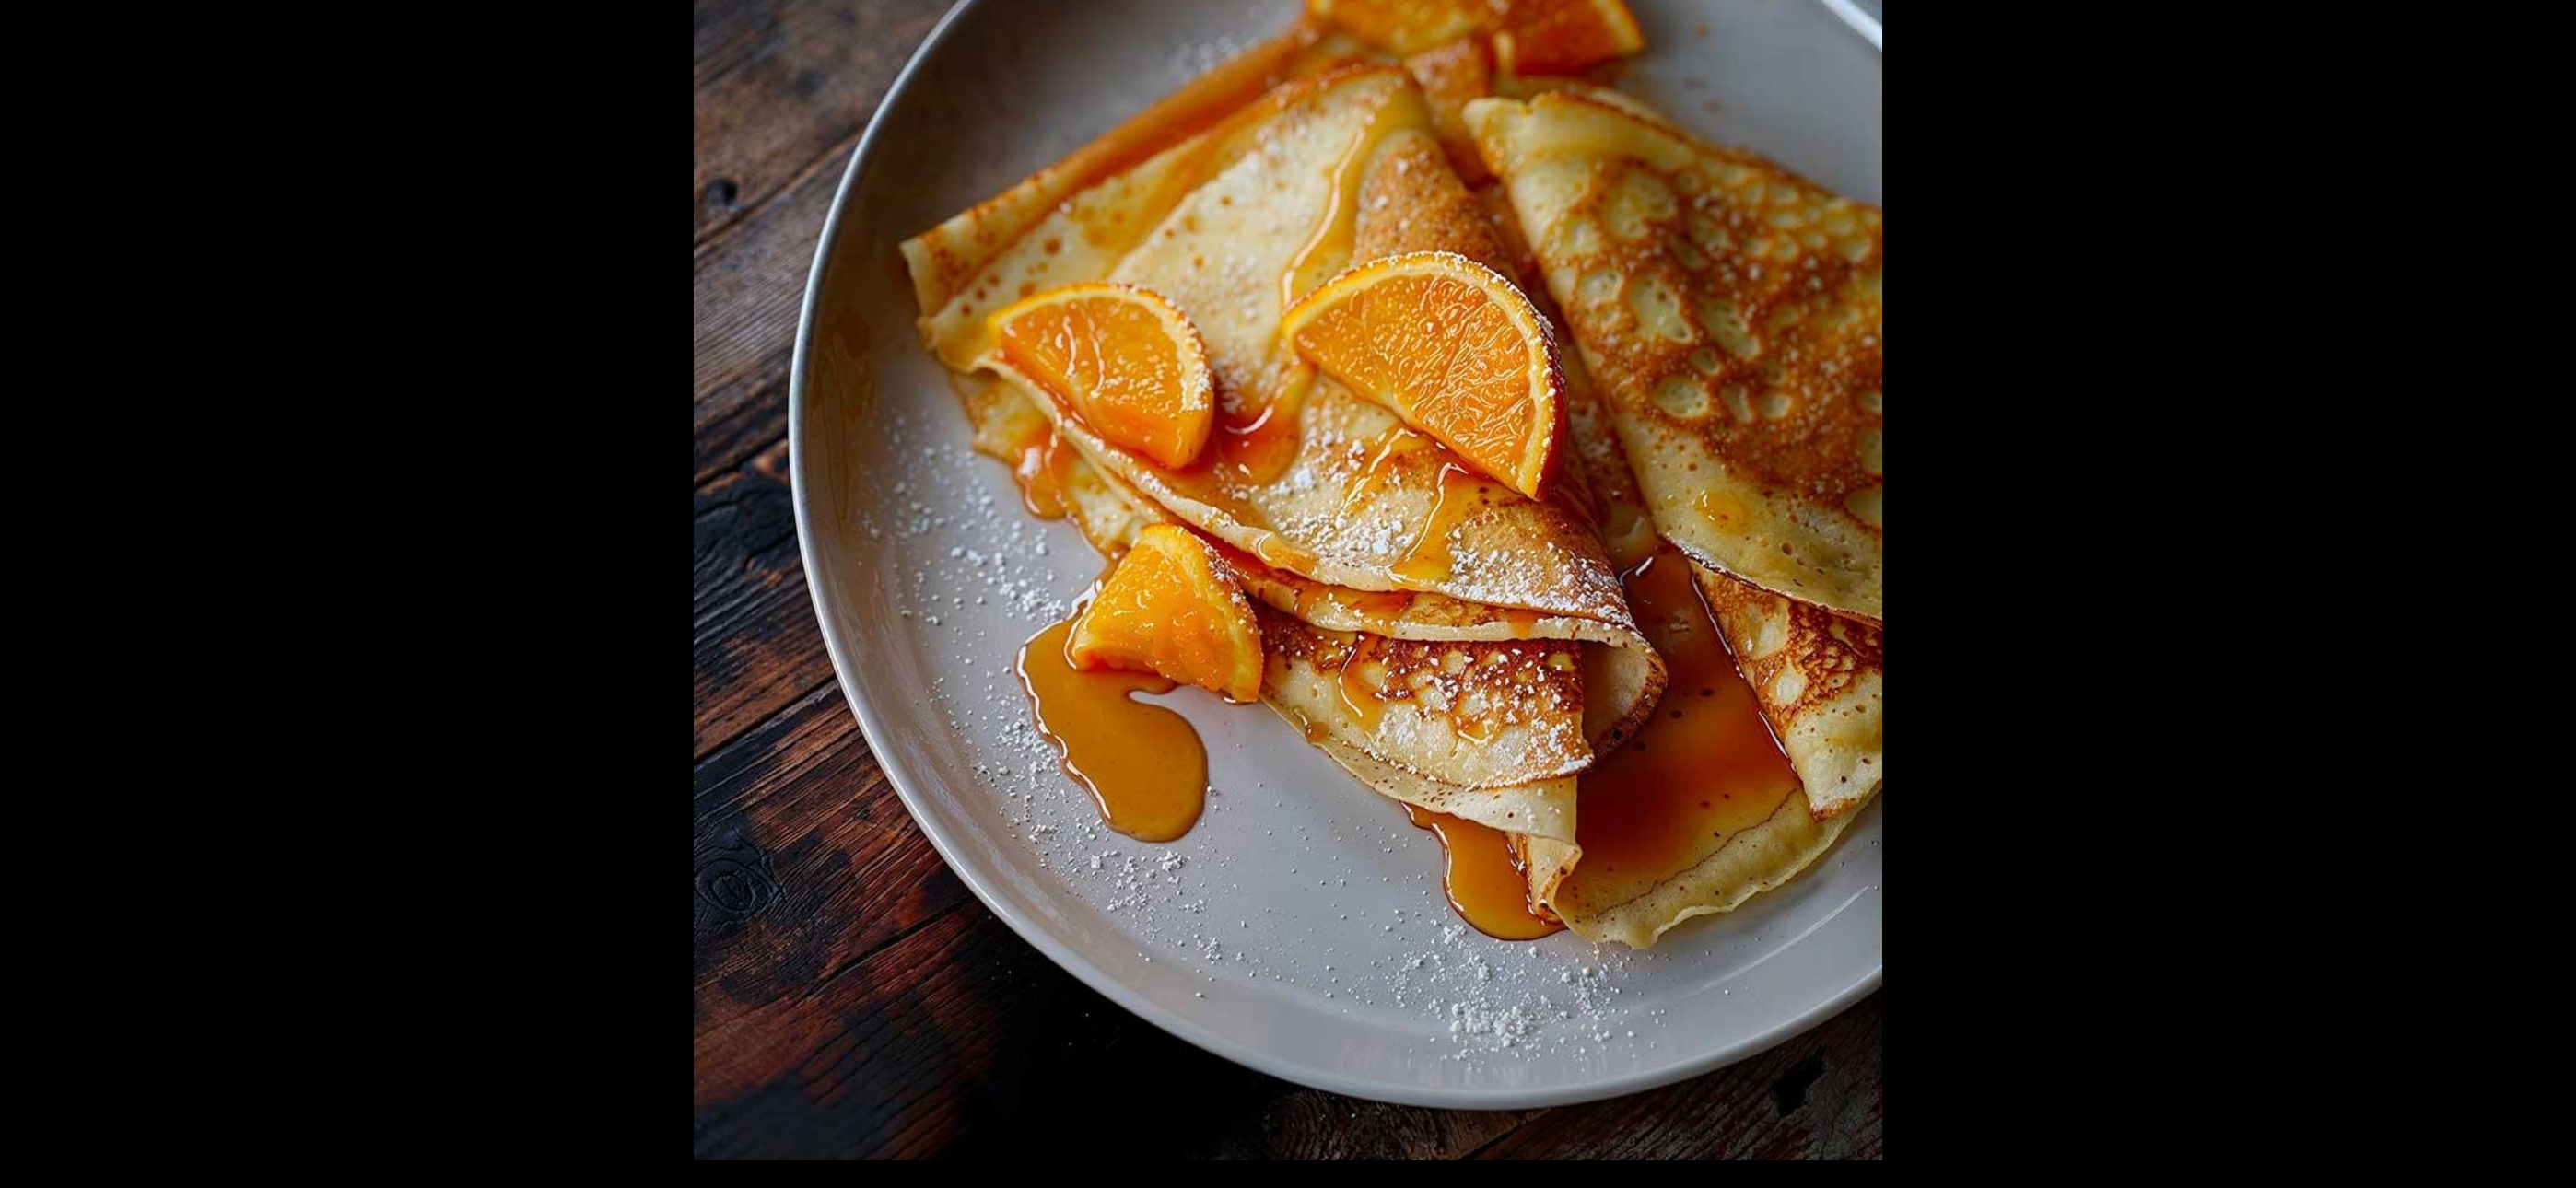
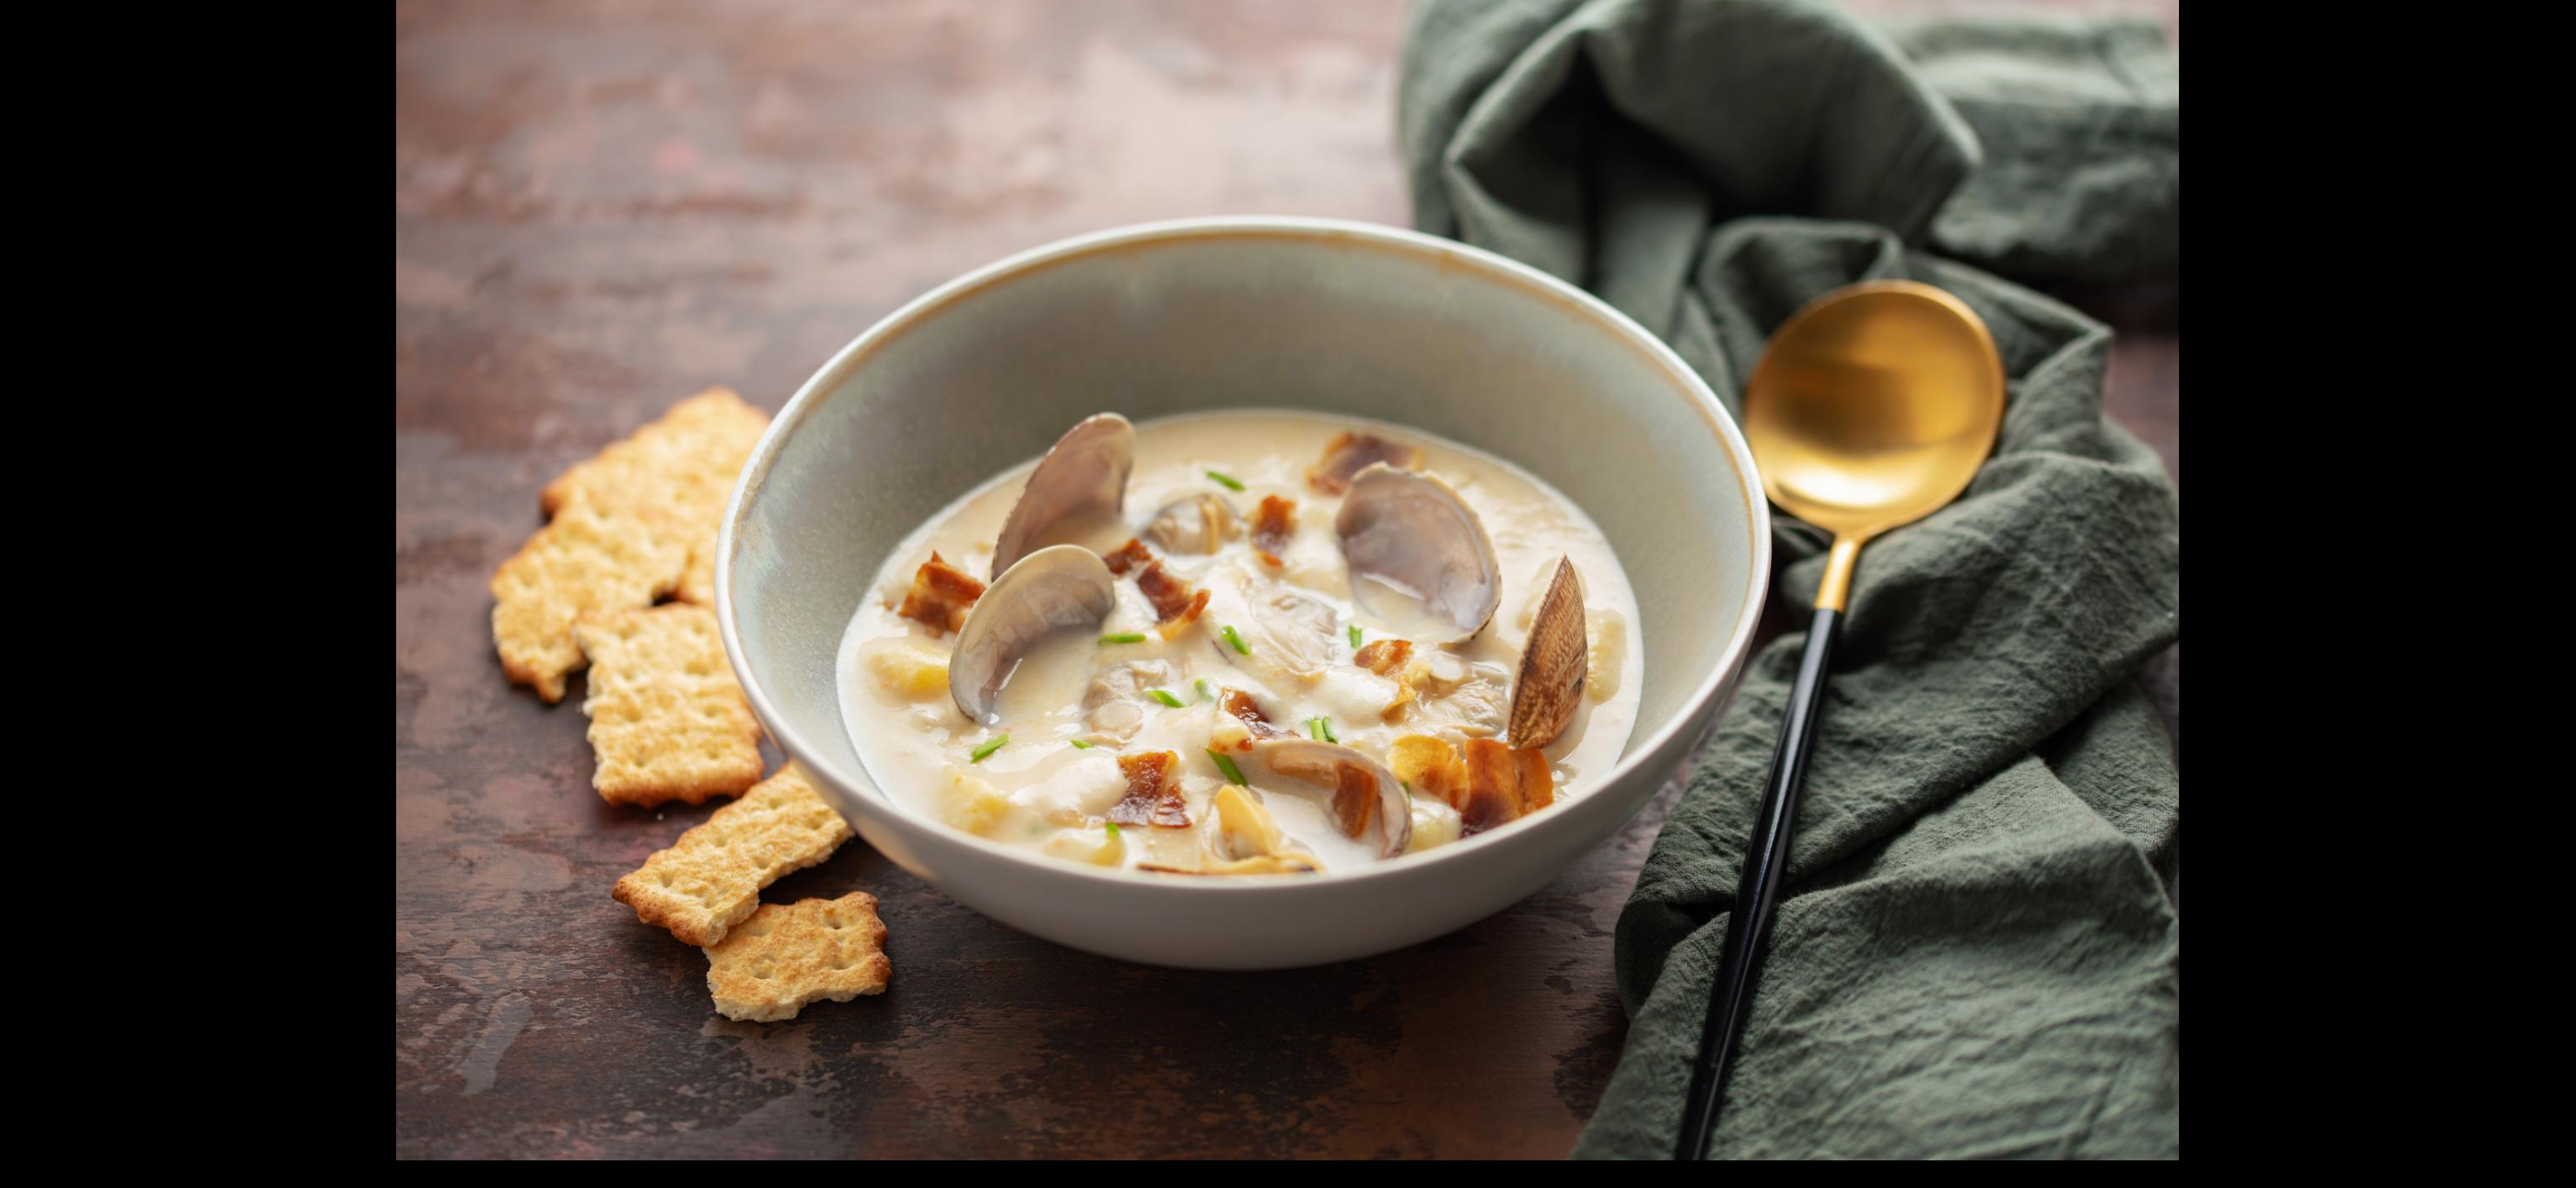
fix(recipe-images): correct Clam Chowder image mapping

diff --git a/public/js/recipe-images.js b/public/js/recipe-images.js
@@ -145,7 +145,7 @@ export const recipeImages = {
   169: 'https://upload.wikimedia.org/wikipedia/commons/thumb/8/88/Chen_Mapo_Tofu.jpg/330px-Chen_Mapo_Tofu.jpg',
   170: 'https://upload.wikimedia.org/wikipedia/commons/thumb/f/fd/My_breakfast_menemen.jpg/330px-My_breakfast_menemen.jpg',
   171: 'https://upload.wikimedia.org/wikipedia/commons/thumb/a/ab/Soljanka_food_05.jpg/330px-Soljanka_food_05.jpg',
-  172: 'https://upload.wikimedia.org/wikipedia/commons/thumb/6/69/Quail_07_bg_041506.jpg/330px-Quail_07_bg_041506.jpg',
+  172: 'https://meal-planner.ro/images/clam-chowder.png',
   173: 'https://upload.wikimedia.org/wikipedia/commons/thumb/4/4d/20220430_currywurst.jpg/330px-20220430_currywurst.jpg',
   174: 'https://upload.wikimedia.org/wikipedia/commons/thumb/e/e5/Flickr_preppybyday_4714085019--Tom_Kha_Kai.jpg/330px-Flickr_preppybyday_4714085019--Tom_Kha_Kai.jpg',
   175: 'https://upload.wikimedia.org/wikipedia/commons/thumb/6/64/Cachupa_2.jpg/330px-Cachupa_2.jpg',